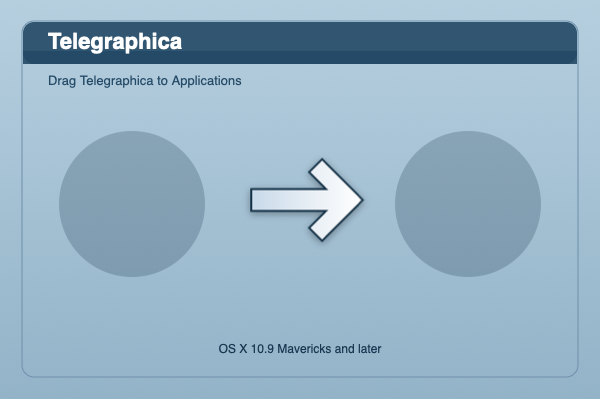
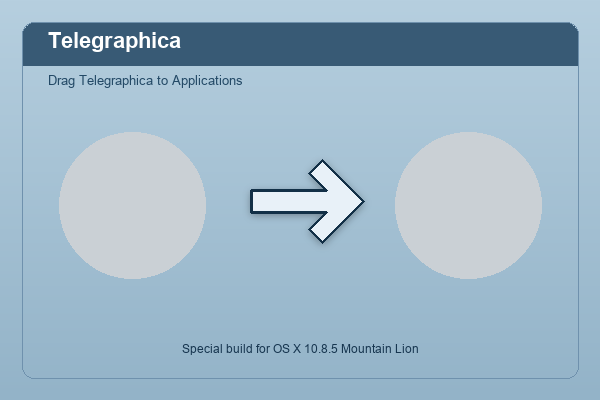
Prepare Mountain Lion 0.4.5-ml release

diff --git a/Sources/UI/TGStatusWindowController.m b/Sources/UI/TGStatusWindowController.m
@@ -2344,6 +2344,10 @@ static NSString * const TGAuthorURLString = @"https://www.instagram.com/yuramens
     NSString *version = [info objectForKey:@"CFBundleShortVersionString"];
     NSString *build = [info objectForKey:@"CFBundleVersion"];
     NSString *versionText = [NSString stringWithFormat:@"Version %@ (%@)", version ? version : @"0.1.0", build ? build : @"0.1.0"];
+    NSString *compatibilitySummary = [info objectForKey:@"TelegraphicaCompatibilitySummary"];
+    if ([compatibilitySummary length] > 0) {
+        versionText = [versionText stringByAppendingFormat:@" — %@", compatibilitySummary];
+    }
     self.aboutVersionField = [self labelWithFrame:NSMakeRect(240, 324, 500, 22)
                                              text:versionText
                                              font:[NSFont systemFontOfSize:12.0]];

diff --git a/Sources/UI/TGUpdateSupport.m b/Sources/UI/TGUpdateSupport.m
@@ -24,7 +24,9 @@ NSString *TGUpdateCheckUserAgentString(void) {
     if ([version length] == 0) {
         version = @"unknown";
     }
-    return [NSString stringWithFormat:@"Telegraphica/%@ (Mac OS X; Mavericks-compatible)", version];
+    NSString *minimumSystemVersion = [[[NSBundle mainBundle] infoDictionary] objectForKey:@"LSMinimumSystemVersion"];
+    NSString *compatibility = [minimumSystemVersion hasPrefix:@"10.8"] ? @"Mountain-Lion-compatible" : @"Mavericks-compatible";
+    return [NSString stringWithFormat:@"Telegraphica/%@ (Mac OS X; %@)", version, compatibility];
 }
 
 NSString *TGGitHubErrorMessageFromData(NSData *data, NSString *fallback) {

diff --git a/docs/releases/v0.4.5-ml.md b/docs/releases/v0.4.5-ml.md
@@ -1,0 +1,45 @@
+# Telegraphica 0.4.5(ml) — Mountain Lion Special Build
+
+Telegraphica `0.4.5-ml` is a special compatibility release for **OS X 10.8.5
+Mountain Lion** on Intel `x86_64`. It is built from the separate
+`mountain-lion/*` branch line and is intentionally independent from the regular
+Mavericks `main` / `develop` release line.
+
+## What Should I Download?
+
+If you are testing Mountain Lion, download this file from **Assets**:
+
+**`Telegraphica-v0.4.5-ml-macos10.8-x86_64.dmg`**
+
+Then open the DMG and drag **Telegraphica.app** into **Applications**.
+
+The `.app.zip` file is an alternate app bundle package. The `.sha256` files are
+for checksum verification.
+
+## Mountain Lion Notes
+
+- Special release for OS X 10.8.5 Mountain Lion only.
+- Built with Xcode 5.1.1 and the OS X 10.9 SDK, targeting OS X 10.8.
+- Uses a Mountain Lion-compatible TDLib `libtdjson.dylib` built from TDLib
+  1.8.0 with compatibility patches.
+- Includes TDLib cache-parse recovery for older or incompatible local caches.
+- Includes basic fallback tiles for stickers that cannot render their native
+  WEBP, TGS, or WEBM content on this legacy lane.
+
+## Known Gaps
+
+- This release is experimental and may show fallback UI where media rendering is
+  incomplete.
+- Some stickers, animations, videos, or document previews may still be limited.
+- The app is unsigned and not notarized, so Mountain Lion may require a manual
+  first launch flow.
+- This is not the normal Mavericks release. Users on OS X 10.9.5 should prefer
+  the regular Telegraphica `v0.4.5-beta` build unless they are intentionally
+  testing the Mountain Lion branch.
+
+## Release Files
+
+- `Telegraphica-v0.4.5-ml-macos10.8-x86_64.dmg`
+- `Telegraphica-v0.4.5-ml-macos10.8-x86_64.app.zip`
+- matching `.sha256` files
+

diff --git a/README.md b/README.md
@@ -26,6 +26,11 @@ Mavericks-friendly.
 > Telegram logos, official artwork, user credentials, TDLib databases, sessions,
 > or account data.
 
+> **Mountain Lion branch note:** `0.4.5-ml` / `0.4.5(ml)` is a special OS X
+> 10.8.5 Mountain Lion release built from the separate `mountain-lion/*` branch
+> line. The regular Mavericks release remains on the ordinary `main` /
+> `develop` branches.
+
 ---
 
 ## What Telegraphica Is For